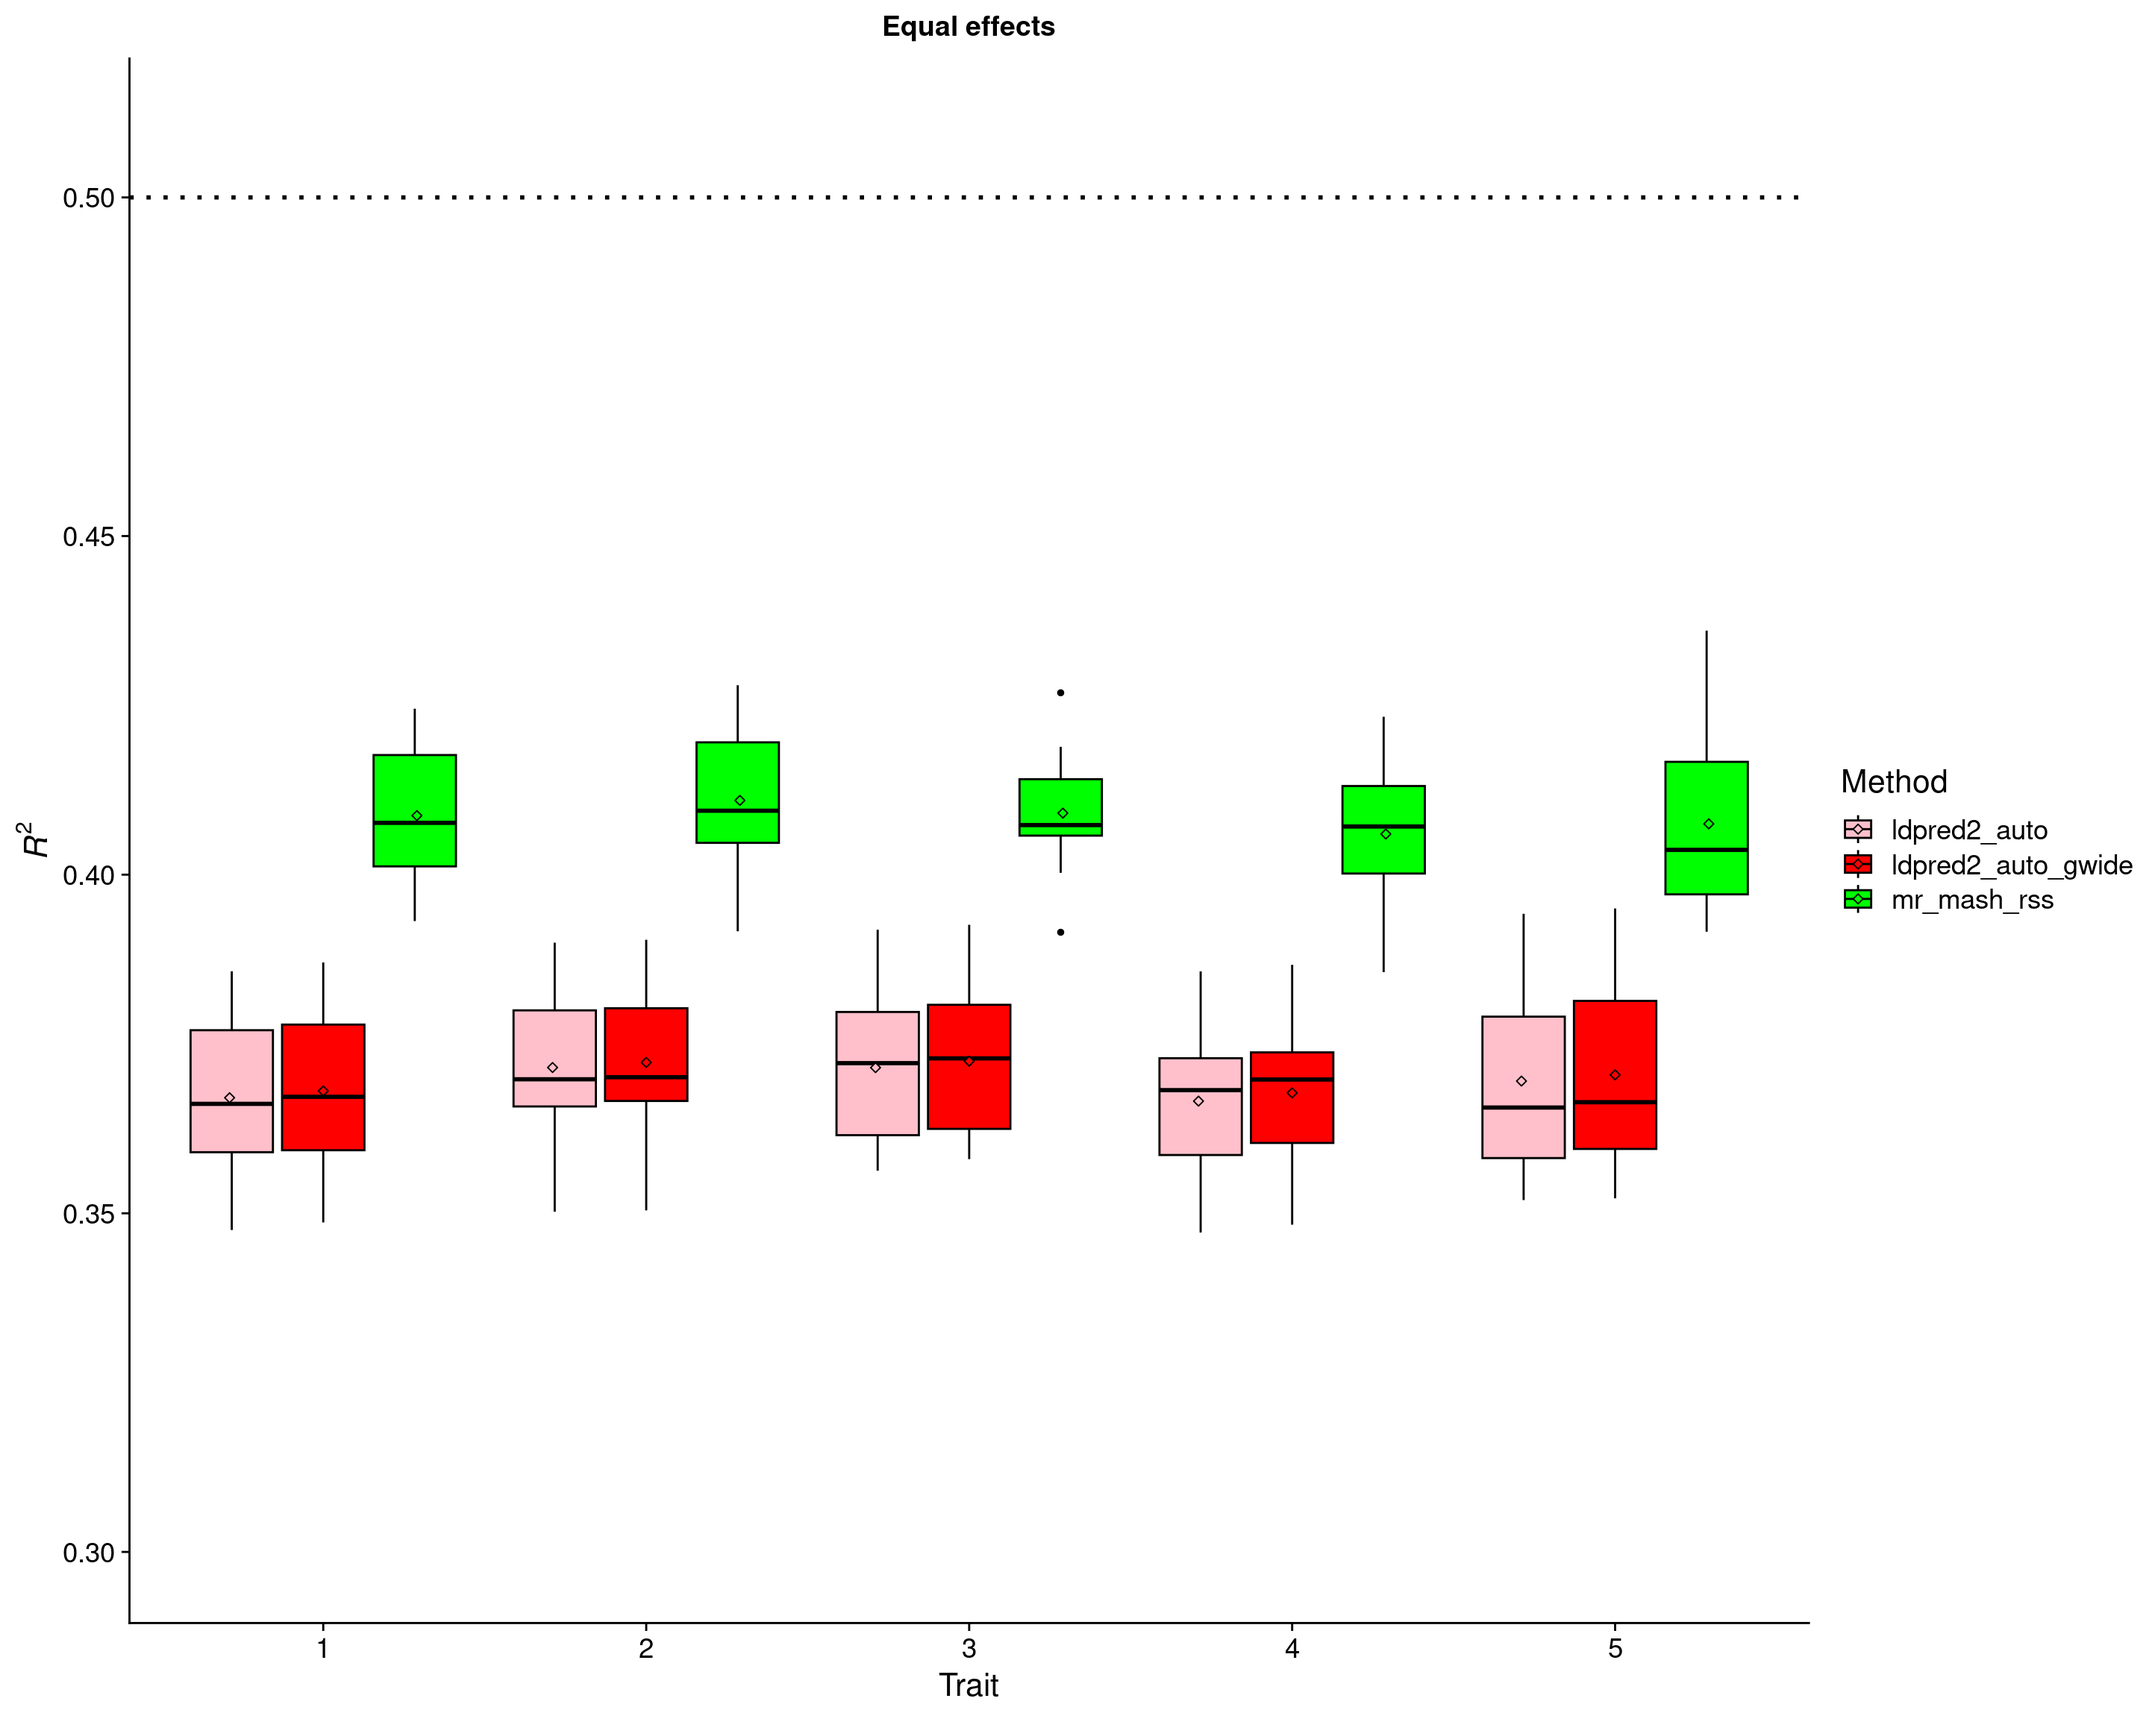
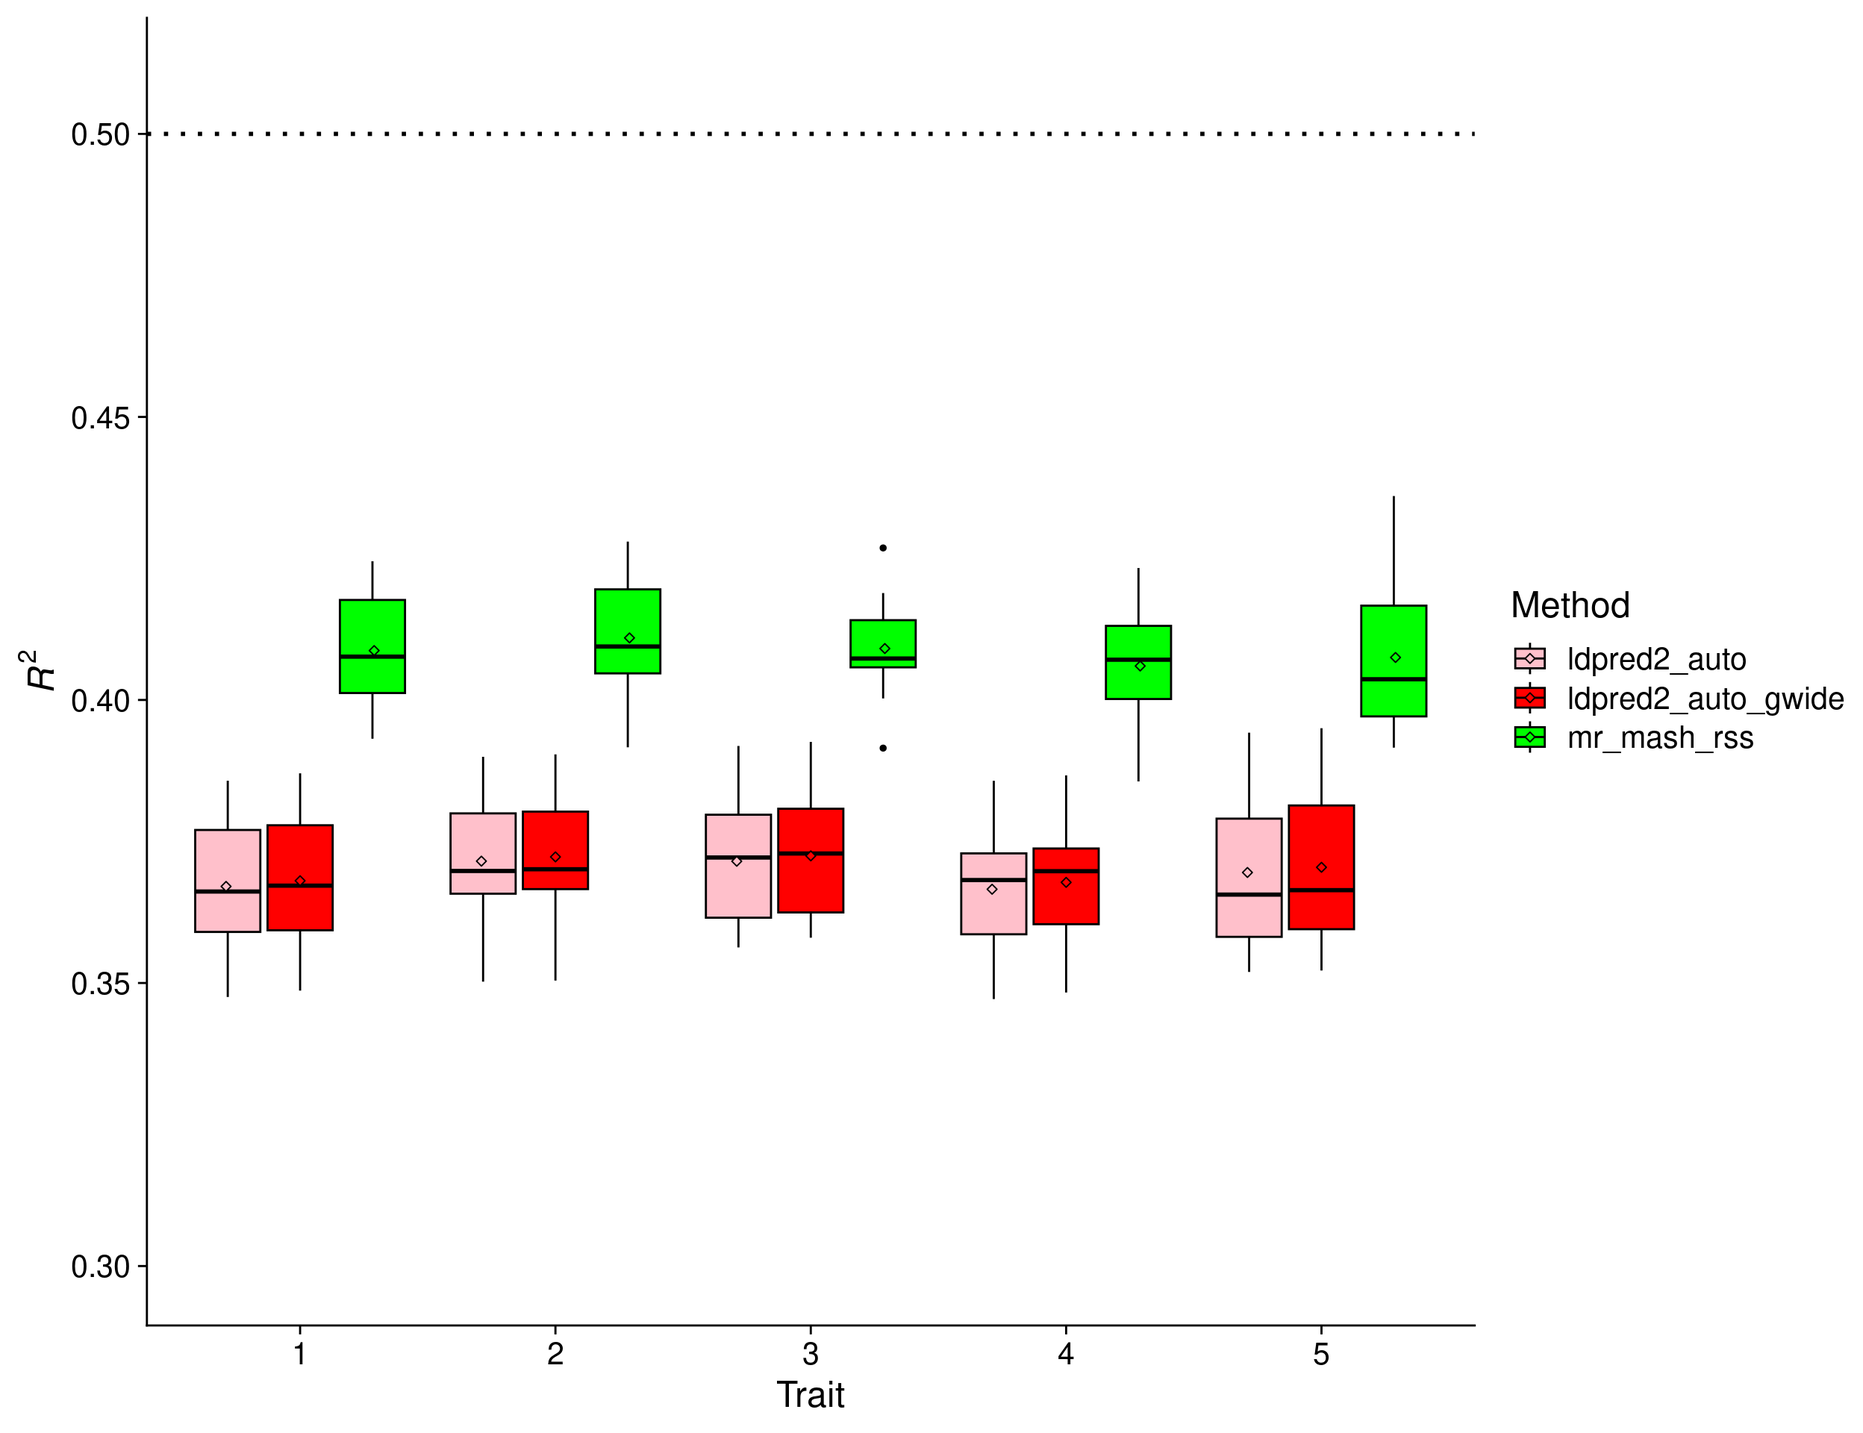
Build site.

diff --git a/docs/ukb_sim_results.html b/docs/ukb_sim_results.html
@@ -534,15 +534,15 @@ project makes it easier to run your code on other machines.</p>
 <div class="panel panel-default">
 <div class="panel-heading">
 <p class="panel-title">
-<a data-toggle="collapse" data-parent="#workflowr-checks" href="#strongRepositoryversionstrongahrefhttpsgithubcommorgantelabmrmashrssanalysistreea222e7bb742ba7ef5c3b6f67afe85c337c862faatargetblanka222e7ba">
+<a data-toggle="collapse" data-parent="#workflowr-checks" href="#strongRepositoryversionstrongahrefhttpsgithubcommorgantelabmrmashrssanalysistreedad6412ee6992ca65aab463e3adcbb9b609f4286targetblankdad6412a">
 <span class="glyphicon glyphicon-ok text-success"
 aria-hidden="true"></span> <strong>Repository version:</strong>
-<a href="https://github.com/morgantelab/mr_mash_rss_analysis/tree/a222e7bb742ba7ef5c3b6f67afe85c337c862faa" target="_blank">a222e7b</a>
+<a href="https://github.com/morgantelab/mr_mash_rss_analysis/tree/dad6412ee6992ca65aab463e3adcbb9b609f4286" target="_blank">dad6412</a>
 </a>
 </p>
 </div>
 <div
[2 lines of base64/hex data omitted]
 class="panel-collapse collapse">
 <div class="panel-body">
 <p>
@@ -552,7 +552,7 @@ reproducibility.
 </p>
 <p>
 The results in this page were generated with repository version
-<a href="https://github.com/morgantelab/mr_mash_rss_analysis/tree/a222e7bb742ba7ef5c3b6f67afe85c337c862faa" target="_blank">a222e7b</a>.
+<a href="https://github.com/morgantelab/mr_mash_rss_analysis/tree/dad6412ee6992ca65aab463e3adcbb9b609f4286" target="_blank">dad6412</a>.
 See the <em>Past versions</em> tab to see a history of the changes made
 to the R Markdown and HTML files.
 </p>
@@ -627,6 +627,40 @@ Message
 </tr>
 </thead>
 <tbody>
+<tr>
+<td>
+Rmd
+</td>
+<td>
+<a href="https://github.com/morgantelab/mr_mash_rss_analysis/blob/dad6412ee6992ca65aab463e3adcbb9b609f4286/analysis/ukb_sim_results.Rmd" target="_blank">dad6412</a>
+</td>
+<td>
+fmorgante
+</td>
+<td>
+2023-06-13
+</td>
+<td>
+Minor improvements
+</td>
+</tr>
+<tr>
+<td>
+html
+</td>
+<td>
+<a href="https://rawcdn.githack.com/morgantelab/mr_mash_rss_analysis/b4baad53c6167f6f7d045d042dc43b8b697e7f33/docs/ukb_sim_results.html" target="_blank">b4baad5</a>
+</td>
+<td>
+fmorgante
+</td>
+<td>
+2023-06-13
+</td>
+<td>
+Build site.
+</td>
+</tr>
 <tr>
 <td>
 Rmd
@@ -839,13 +873,49 @@ p_methods_shared &lt;- ggplot(res, aes(x = trait, y = score, fill = method)) +
                                           preserve = &quot;single&quot;)) +
   ylim(0.3, 0.51) +
   scale_fill_manual(values = c(&quot;pink&quot;, &quot;red&quot;, &quot;green&quot;))+ #, labels = c(&quot;g-lasso&quot;, &quot;smt-lasso&quot;, &quot;e-net&quot;)) +
-  labs(x = &quot;Trait&quot;, y = expression(italic(R)^2), title = &quot;Equal effects&quot;, fill=&quot;Method&quot;) +
+  labs(x = &quot;Trait&quot;, y = expression(italic(R)^2), fill=&quot;Method&quot;) +
   geom_hline(yintercept=0.5, linetype=&quot;dotted&quot;, linewidth=1, color = &quot;black&quot;) +
-  theme_cowplot(font_size = 16) +
-  theme(plot.title = element_text(hjust = 0.5, size=14))
+  theme_cowplot(font_size = 18)
 
 print(p_methods_shared)</code></pre>
-<p><img src="figure/ukb_sim_results.Rmd/equal%20effects-1.png" width="1440" style="display: block; margin: auto;" /></p>
+<p><img src="figure/ukb_sim_results.Rmd/equal%20effects-1.png" width="1248" style="display: block; margin: auto;" /></p>
+<p>
+<button type="button" class="btn btn-default btn-xs btn-workflowr btn-workflowr-fig" data-toggle="collapse" data-target="#fig-no-spaces-equal-effects-1">
+Past versions of "equal effects-1.png"
+</button>
+</p>
+<div id="fig-no-spaces-equal-effects-1" class="collapse">
+<div class="table-responsive">
+<table class="table table-condensed table-hover">
+<thead>
+<tr>
+<th>
+Version
+</th>
+<th>
+Author
+</th>
+<th>
+Date
+</th>
+</tr>
+</thead>
+<tbody>
+<tr>
+<td>
+<a href="https://github.com/morgantelab/mr_mash_rss_analysis/blob/b4baad53c6167f6f7d045d042dc43b8b697e7f33/docs/figure/ukb_sim_results.Rmd/equal effects-1.png" target="_blank">b4baad5</a>
+</td>
+<td>
+fmorgante
+</td>
+<td>
+2023-06-13
+</td>
+</tr>
+</tbody>
+</table>
+</div>
+</div>
 <p>In this scenario, there is a clear advantage to using multivariate
 methods. In fact, given that the effects are equal across traits and the
 residuals are uncorrelated, a multivariate analysis is roughly
